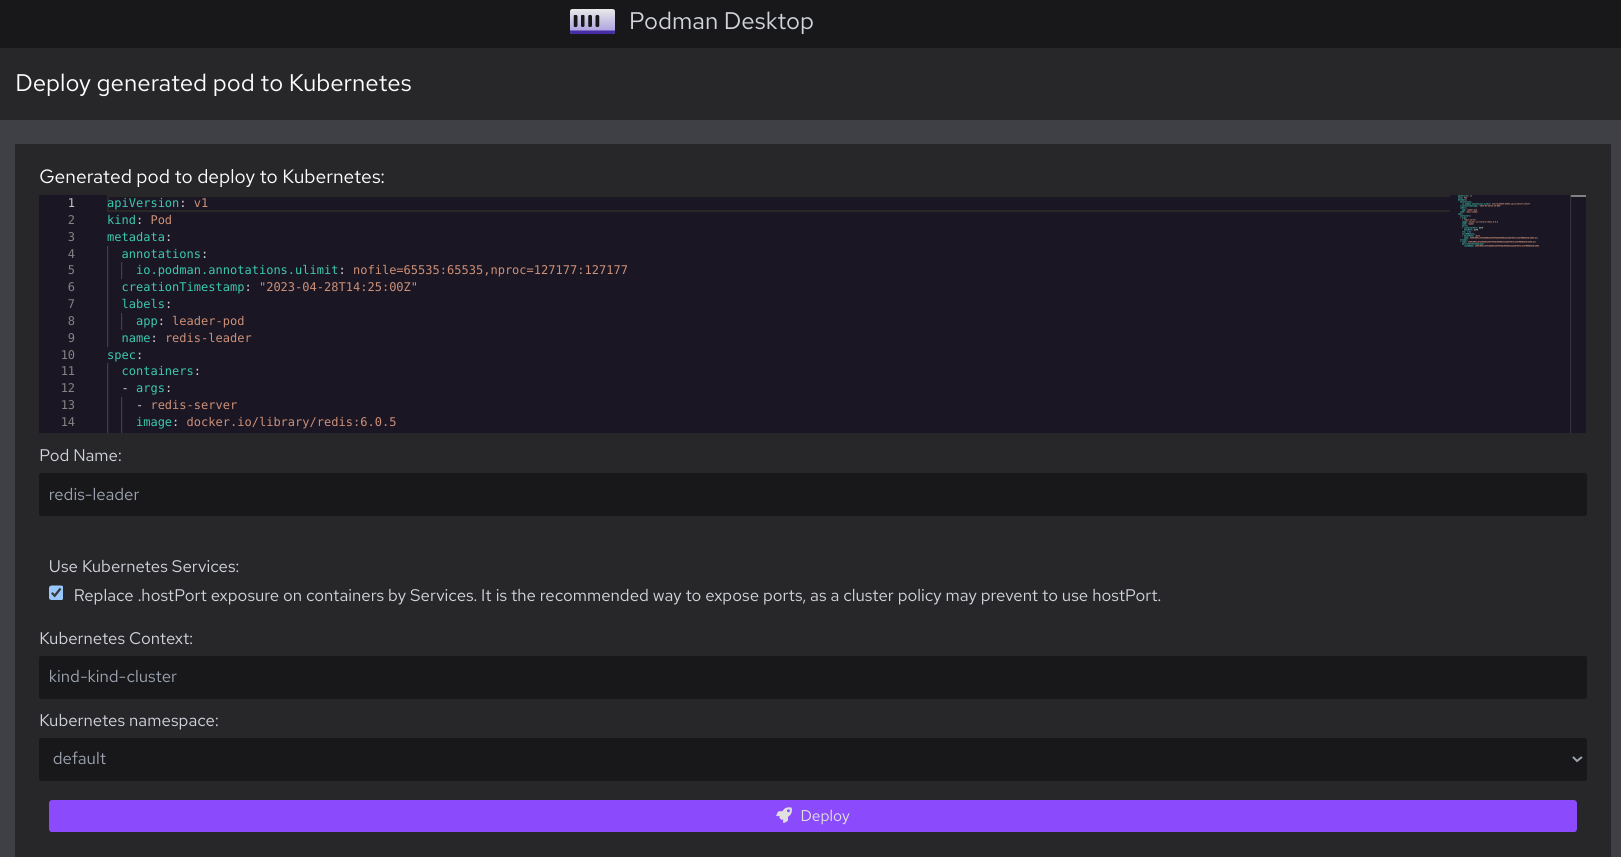
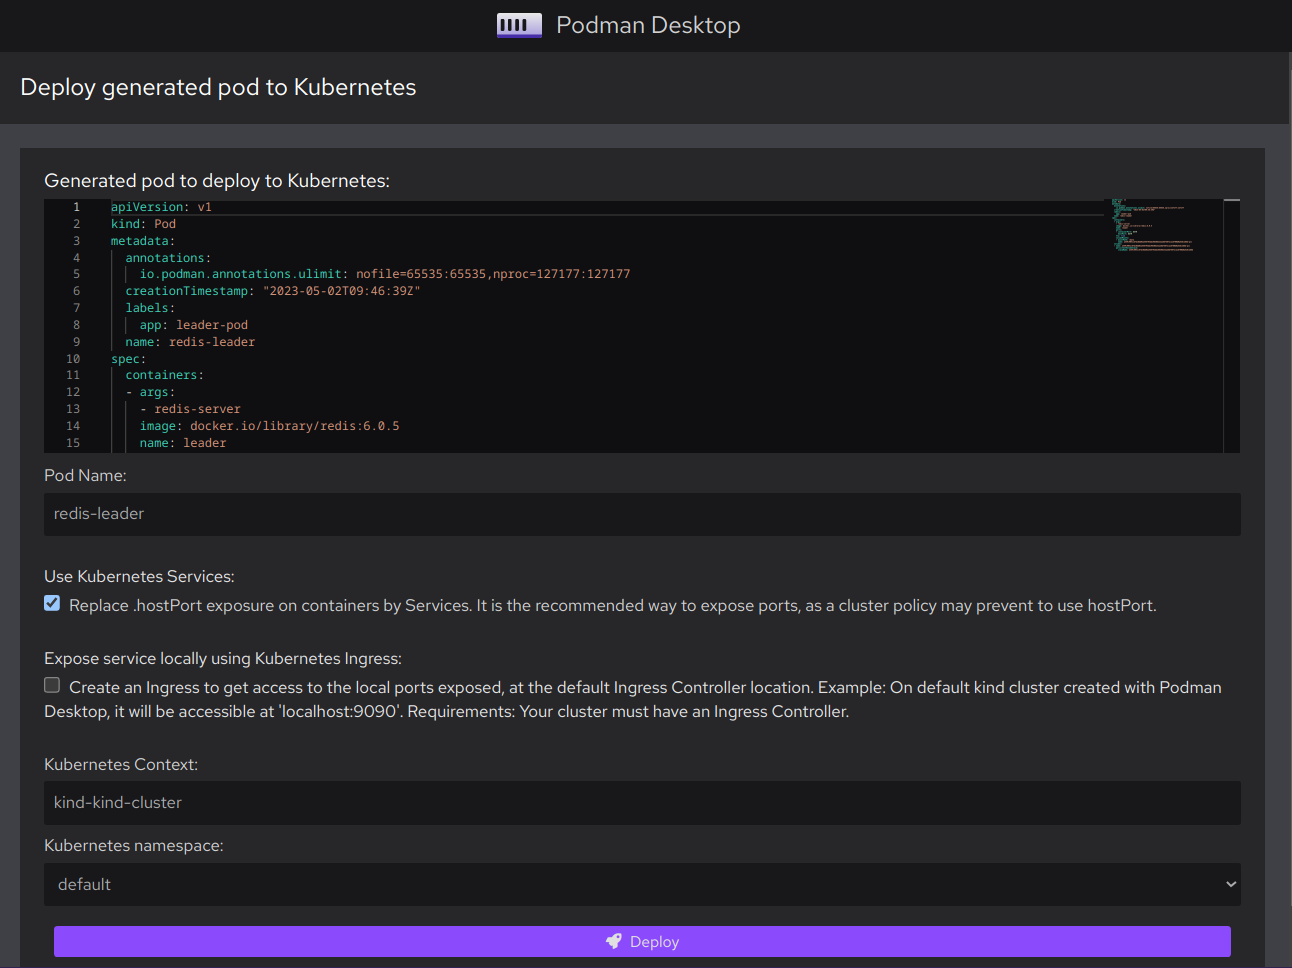
Added screenshots

Changed region(s): [[0.0, 0.0607, 1.0, 1.0], [0.3406, 0.0, 0.5573, 0.0607]]

diff --git a/website/blog/2023-04-19-running-a-local-kubernetes-cluster-with-podman-desktop.md b/website/blog/2023-04-19-running-a-local-kubernetes-cluster-with-podman-desktop.md
@@ -17,9 +17,8 @@ On the agenda:
 1. Installing and initializing your container engine: Podman.
 1. Installing and starting your local Kubernetes provider: Kind.
 1. Starting the Redis leader.
-1. Starting the Redis followers.
-1. Starting the Guestbook frontend.
-1. Exposing the Guestbook frontend service.
+1. Starting and scaling the Redis followers.
+1. Starting and exposing the Guestbook frontend.
 
 <!--truncate-->
 
@@ -32,11 +31,13 @@ You need Podman Desktop.
 1. Follow the instructions. Stick to the default installation method.
 1. Start **Podman Desktop**.
 
-At this point, you have a graphical user interface to control your container engine.
+At this point, you have a graphical user interface to:
+
+- Install Podman and Kind.
+- Control and work with your container engines and Kubernetes clusters.
+- Run your application on your container engine and migrate it to Kubernetes.
 
 ## Installing and initializing your container engine: Podman
-
-You need a container engine.
 
 Podman Desktop can control various container engines, such as:
 
@@ -49,14 +50,15 @@ Consider installing the Podman container engine for:
 - Added security
 - No daemon
 - Open source
-- Rootless mode (for macOS and Linux: on Windows, it conflicts with Kind)
-
-On Linux, you can install Podman natively.
-See: [Installing Podman on Linux](https://podman.io/getting-started/installation#installing-on-linux).
 
 Containers are a Linux technology.
-On macOS and Windows, Podman requires to run in a Linux virtual machine.
-Podman Desktop helps you installing Podman and initializing a Podman machine:
+
+- On Linux, you can install Podman natively.
+  See: [Installing Podman on Linux](https://podman.io/getting-started/installation#installing-on-linux).
+- On macOS and Windows, Podman requires to run in a Linux virtual machine: the Podman machine.
+  Use Podman Desktop to install Podman and initialize your Podman machine:
+
+#### Procedure
 
 1. Open Podman Desktop **Dashboard**
 1. The **Dashboard** displays _Podman Desktop was not able to find an installation of Podman_.
@@ -82,27 +84,27 @@ Podman Desktop can help you run Kind-powered local Kubernetes clusters on a cont
 Podman Desktop helps you [installing the `kind` CLI](/docs/kubernetes/kind/installing-kind):
 
 1. In the status bar, click on **Kind**, and follow the prompts.
+1. When the `kind` CLI is available, the status bar does not display **Kind**.
 1. On Windows, [configure Podman in rootful mode](docs/kubernetes/kind/configuring-podman-for-kind-on-windows)
 
    ```shell-session
    $ podman system connection default podman-machine-default-root
    ```
 
-   When the `kind` CLI is available, the status bar does not display **Kind**.
-
-1. Go to **Settings > Resources**
-1. In the **Kind** tile, click on the **Create new** button.
+1. Go to **<icon icon="fa-solid fa-cog" size="lg" /> Settings > Resources**
+1. In the **<img src="/img/kind-icon.png" alt="Kind icon" style={{height: '1.5em', display: 'inline'}} /> Kind** tile, click on the **Create new** button.
    1. **Name**: enter `kind-cluster`.
    1. **Provider Type**: select `podman`.
    1. **HTTP Port**: select `9090`.
    1. **HTTPS Port**: select `9443`.
    1. **Setup an ingress controller**: `Enabled`
    1. Click the **Create** button.
+      ![Create a Kind cluster screen](img/running-a-local-kubernetes-cluster-with-podman-desktop/create-a-kind-cluster.png)
 1. After successful creation, click on the **Go back to resources** button
 
 #### Verification
 
-1. In **Settings > Resources** your Kind cluster is running/
+1. In **<icon icon="fa-solid fa-cog" size="lg" /> Settings > Resources** your Kind cluster is running/
 
    ![Kind cluster is running](img/running-a-local-kubernetes-cluster-with-podman-desktop/kind-cluster-is-running.png)
 
@@ -145,10 +147,9 @@ This is functionally equal to the `redis-leader` deployment that the Kubernetes 
    1. **Expose service locally using Kubernetes Ingress**: deselect **Create a Kubernetes ingress to get access to the ports that this pod exposes, at the default ingress controller location. Example: on a default Kind cluster created with Podman Desktop: `http://localhost:9090`. Requirements: your cluster has an ingress controller`**.
    1. **Kubernetes namespaces**: select `default`.
    1. Click **<icon icon="fa-solid fa-rocket" size="lg" /> Deploy**.
+      ![Deploy generated leader pod to Kubernetes screen](img/running-a-local-kubernetes-cluster-with-podman-desktop/deploy-generated-leader-pod-to-kubernetes.png)
    1. Wait for the pod to reach the state: **Phase: Running**.
    1. Click **Done**.
-
-   ![Deploy generated pod to Kubernetes](img/running-a-local-kubernetes-cluster-with-podman-desktop/deploy-generated-leader-pod-to-kubernetes.png)
 
 #### Verification
 
@@ -184,6 +185,7 @@ This is functionally equal to the `redis-follower` deployment that the Kubernete
    1. **Expose service locally using Kubernetes Ingress**: deselect **Create a Kubernetes ingress to get access to the ports that this pod exposes, at the default ingress controller location. Example: on a default Kind cluster created with Podman Desktop: `http://localhost:9090`. Requirements: your cluster has an ingress controller`**.
    1. **Kubernetes namespaces**: select `default`.
    1. Click **<icon icon="fa-solid fa-rocket" size="lg" /> Deploy**.
+      ![Deploy generated follower pod to Kubernetes screen](img/running-a-local-kubernetes-cluster-with-podman-desktop/deploy-generated-follower-pod-to-kubernetes.png)
    1. Wait for the pod to reach the state: **Phase: Running**.
    1. Click **Done**.
 1. To add replicas, repeat the last step with another **Pod Name** value.
@@ -228,6 +230,7 @@ This is functionally equal to the `frontend` deployment that the Kubernetes exam
    1. **Expose service locally using Kubernetes Ingress**: select **Create a Kubernetes ingress to get access to the ports that this pod exposes, at the default ingress controller location. Example: on a default Kind cluster created with Podman Desktop: `http://localhost:9090`. Requirements: your cluster has an ingress controller`**.
    1. **Kubernetes namespaces**: select `default`.
    1. Click **<icon icon="fa-solid fa-rocket" size="lg" /> Deploy**.
+      ![Deploy generated frontend pod to Kubernetes screen](img/running-a-local-kubernetes-cluster-with-podman-desktop/deploy-generated-frontend-pod-to-kubernetes.png)
    1. Wait for the pod to reach the state: **Phase: Running**.
    1. Click **Done**.
 
